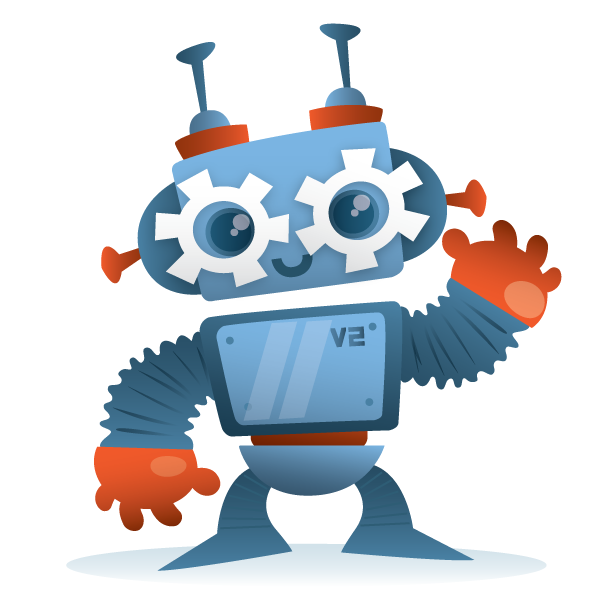
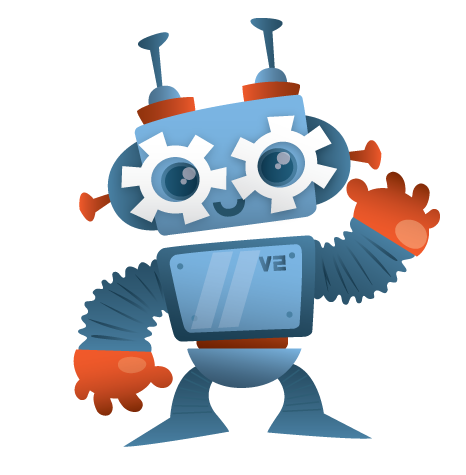
updating robot image and fixing search pagination

diff --git a/app/controllers/recipes_controller.rb b/app/controllers/recipes_controller.rb
@@ -23,13 +23,14 @@ class RecipesController < ApplicationController
   		return
 	else
 		name = params[:name]
-		@results = Recipe.search(name).paginate(:per_page => 10, :page => params[:page])
+		@recipes = Recipe.search(name).paginate(:per_page => 10, :page => params[:page])
 	end
 
     respond_to do |format|
       format.html # search.html.erb
-      format.xml  { render :xml => @results }
-      format.json { render :json => @results }
+      format.xml  { render :xml => @recipes }
+      format.json { render :json => @recipes }
+      format.js
     end
   end
   

diff --git a/config/routes.rb b/config/routes.rb
@@ -5,7 +5,7 @@ Drinkrobot::Application.routes.draw do
   resources :ingredients
   resources :recipes
   resources :favorites
-  devise_for :users
+  devise_for :users, :path_names => { :sign_up => "register" }
   match 'recipes/search/:name' => 'recipes#search'
   match 'ingredients/search/:name' => 'ingredients#search'
   match '/:controller(/:action(/:id))'
